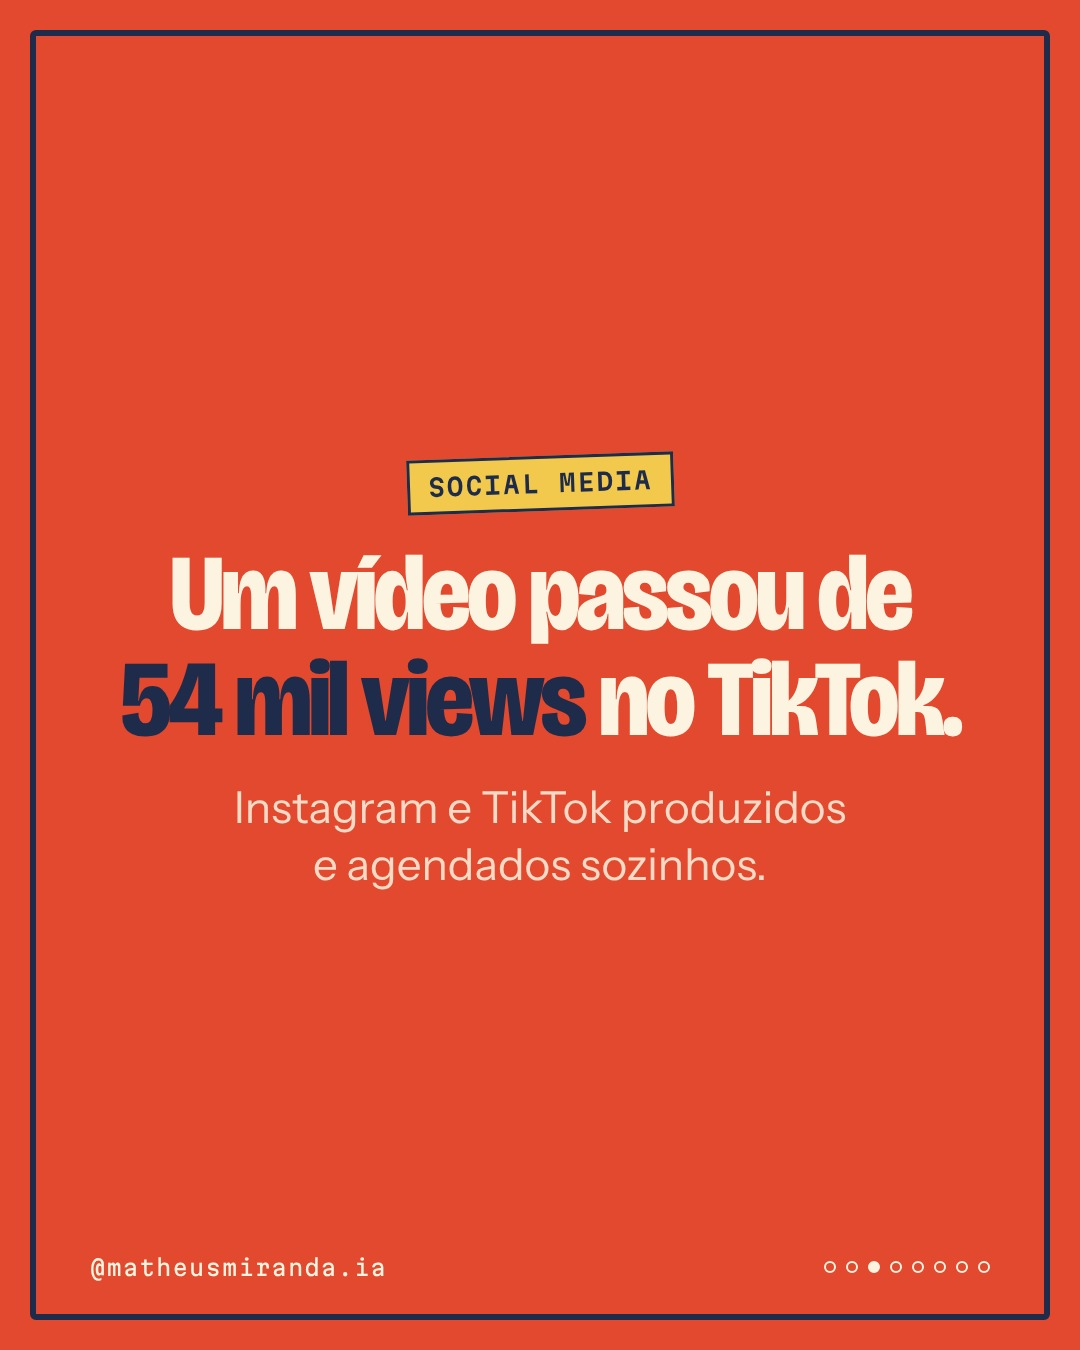
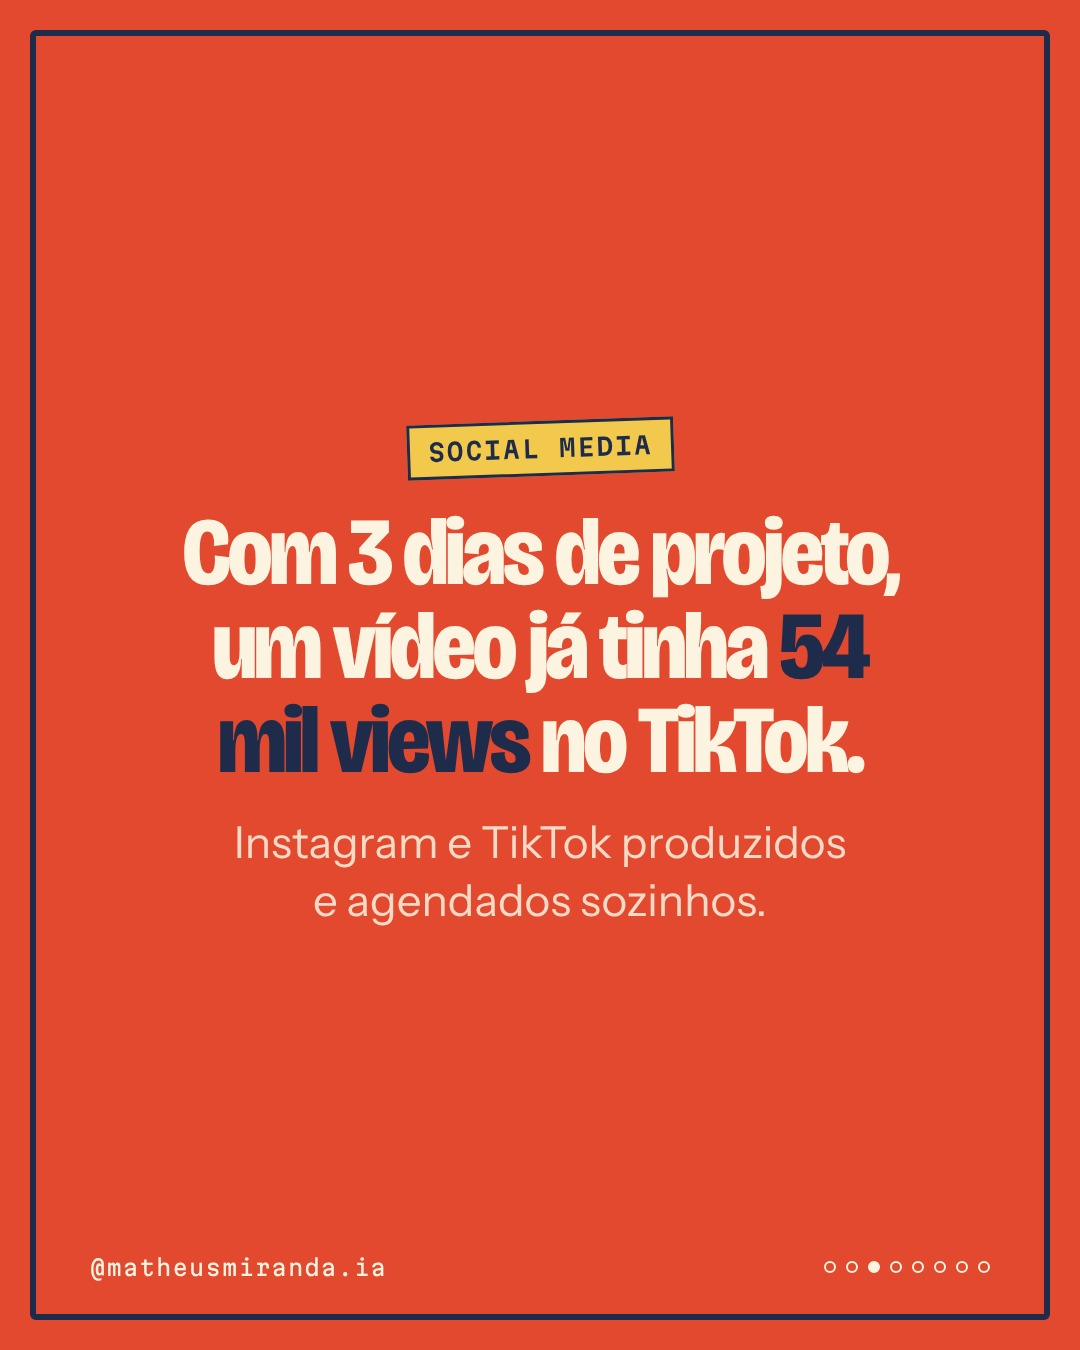
matheusmiranda: card 3 da agência (3 dias de projeto)
Claude-Session: https://claude.ai/code/session_01GjPkSrFtnijZ1C3m9bRwha

Changed region(s): [[0.0917, 0.3111, 0.8861, 0.6844]]

diff --git a/matheusmiranda/personagem/p08_agencia.py b/matheusmiranda/personagem/p08_agencia.py
@@ -2,7 +2,7 @@ SLUG = '2026-11-24-p08-agencia'
 CARDS = [
  dict(il='il-agencia-capa.png', tag='Bastidor', titulo='Montei uma agência de marketing inteira <em>dentro do Claude.</em>', t=84),
  dict(fundo='papel', tag='Tráfego', titulo='Opera Meta, TikTok e <em>anúncio dentro do ChatGPT.</em>', sub='E o painel se atualiza sozinho de hora em hora.', t=100),
- dict(fundo='laranja', tag='Social media', titulo='Um vídeo passou de <em>54 mil views</em> no TikTok.', sub='Instagram e TikTok produzidos e agendados sozinhos.', t=108),
+ dict(fundo='laranja', tag='Social media', titulo='Com 3 dias de projeto, um vídeo já tinha <em>54 mil views</em> no TikTok.', sub='Instagram e TikTok produzidos e agendados sozinhos.', t=96),
  dict(il='il-agencia-video.png', tag='Vídeo', titulo='Vídeo de receita <em>sem câmera e sem cozinha.</em>', t=88),
  dict(fundo='navy', tag='SEO', titulo='Pesquisa, conserta <em>e coloca no Google.</em>', sub='Amanhã eu abro esse por dentro.', t=108),
  dict(fundo='papel', tag='CRM', titulo='Toda segunda me entrega <em>o que testar na semana.</em>', sub='Foi ela que viu: WhatsApp dá 10x mais clique que e-mail.', t=100),
